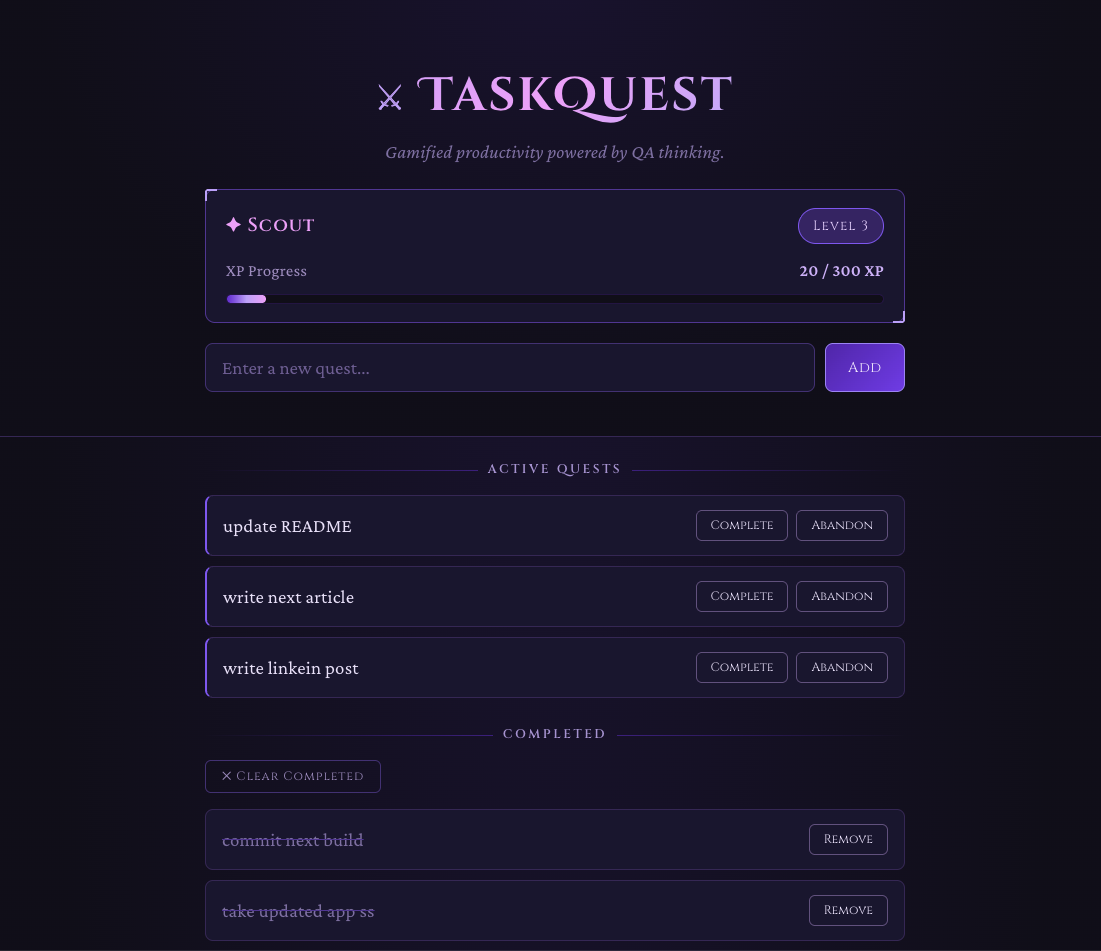
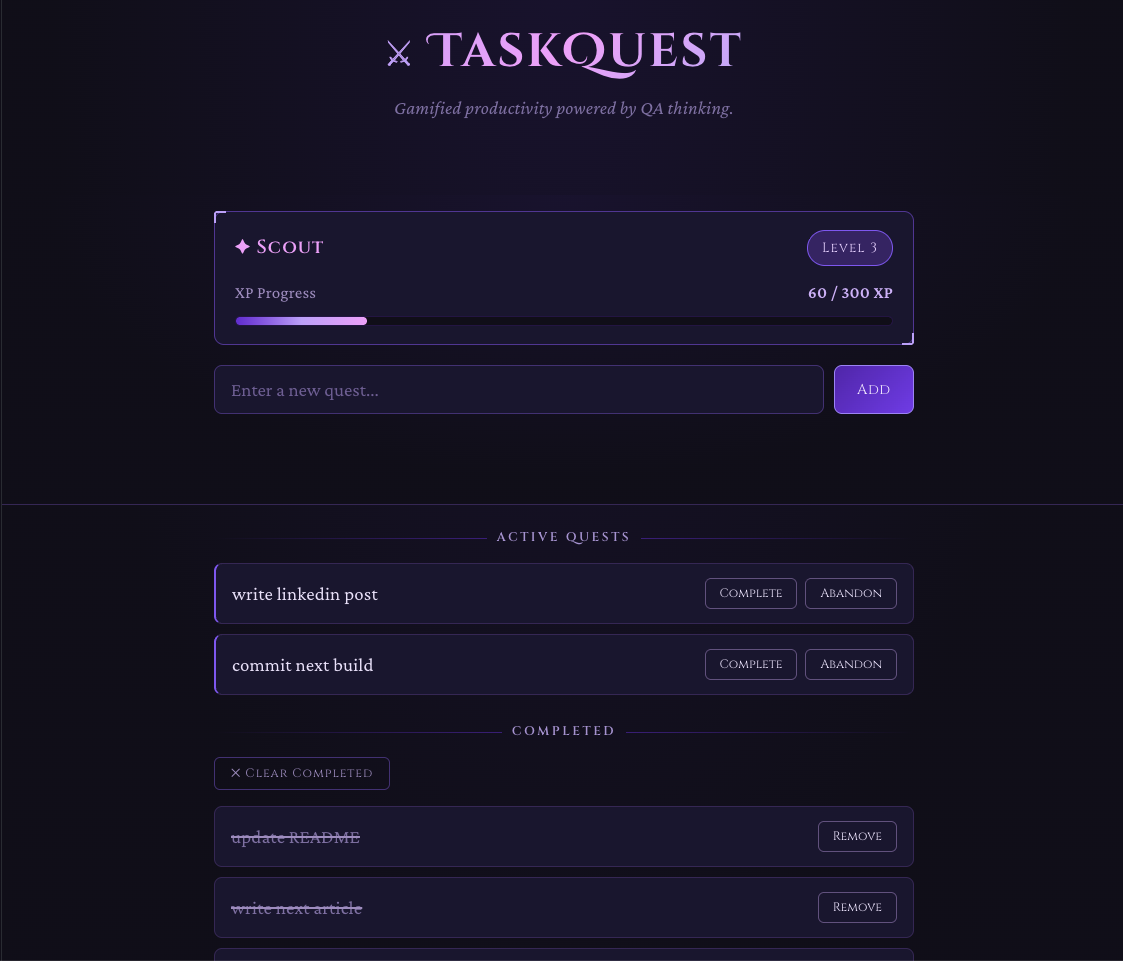
docs: update Article 3 link and refine README screenshot

diff --git a/README.md b/README.md
@@ -46,7 +46,7 @@ Beneath the aesthetic, the real design driver throughout has been QA thinking: e
 - **Quest creation** with input validation — empty submissions are blocked
 - **Smart duplicate detection** — blocks duplicate active quests, but allows re-adding a quest once the existing one is completed (supports recurring tasks)
 - **Auto-sorting** — completed quests move to the bottom, keeping active quests in focus
-- **Sticky header** — XP bar and quest input stay fixed while the quest list scrolls
+- **Partial sticky header** — only the XP bar and quest input stay pinned while scrolling; the title scrolls away naturally, keeping the sticky area focused on what you actually interact with
 - **Enter key support** — submit a quest without reaching for the mouse
 - **Bulk clear completed** — remove all completed quests at once, with confirmation
 - **Context-aware confirmations** — distinct confirmation messages for abandoning an active quest vs. removing a completed one
@@ -113,6 +113,8 @@ A few deliberate decisions worth noting:
 - **Smart duplicate check** — only blocks a duplicate if the existing quest with the same name is still active; completed quests don't block re-adding, supporting recurring tasks like "Go for a walk"
 - **Context-aware `window.confirm`** — the confirmation message changes depending on whether a quest is being abandoned (active) or removed (completed), keeping the language accurate to the action
 - **Single `useEffect` per concern** — quests sync to `localStorage` in one effect, XP syncs in another inside the hook, keeping persistence logic predictable and easy to trace
+- **Action-specific labels, not generic ones** — active quests use "Abandon," completed quests use "Remove." Different actions deserve different words, even when the underlying function is shared
+- **Palette discipline over default conventions** — Complete and Abandon buttons originally used green/red, a common UI pattern. Against the Jewel Purple theme they looked disconnected from the rest of the interface, so both were rebuilt using only purple-magenta tones, differentiated by hue temperature rather than color family
 
 ---
 
@@ -134,7 +136,7 @@ This project is documented across an ongoing Medium series on what game QA taugh
 
 1. [What Game QA Taught Me About Writing Better Software](https://medium.com/@yogita27496/what-game-qa-taught-me-about-writing-better-software-f4fd96cbe02b)
 2. [7 QA Mindsets Every Frontend Developer Should Learn](https://medium.com/@yogita27496/7-qa-mindsets-every-frontend-developer-should-learn-ff84a42d664f)
-3. [How I Added Gamification to a Simple To-Do App](#) — coming soon
+3. [How I Added Gamification to a Simple To-Do App](https://medium.com/@yogita27496/how-i-added-gamification-to-a-simple-to-do-app-and-what-i-learned-along-the-way-eff00851b45a)
 
 ---
 
@@ -142,7 +144,7 @@ This project is documented across an ongoing Medium series on what game QA taugh
 
 Frontend developer with a background in game FQA (Ubisoft, Bandai Namco titles via Globalstep). Currently building in React while exploring game development with Unity and Unreal Engine.
 
-- 🌐 Portfolio: [Currently in works]
+- 🌐 Portfolio: [currently in works]
 - 💼 LinkedIn: [Yogitaa M.](https://www.linkedin.com/in/yogita-m/)
 - 🎮 MobyGames: [Yogita Yogita](https://www.mobygames.com/person/1835643/yogita-yogita/)
 - ✍️ Medium: [@yogita27496](https://medium.com/@yogita27496)